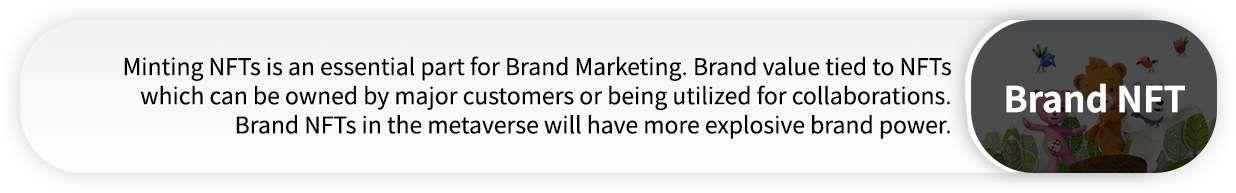
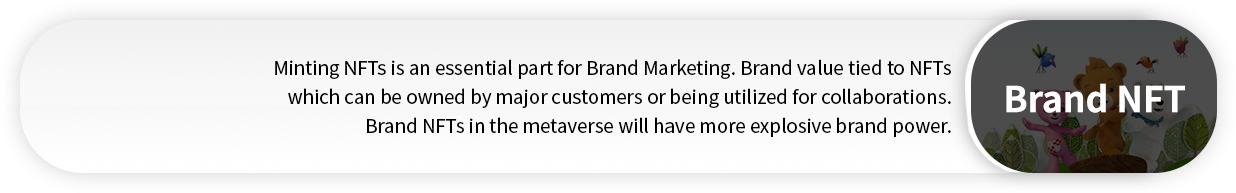
ok

Changed region(s): [[0.0922, 0.2798, 0.7686, 0.4352], [0.0922, 0.4352, 0.7686, 0.5596], [0.1845, 0.5907, 0.7686, 0.715]]

diff --git a/css/ecoplanet.css b/css/ecoplanet.css
@@ -473,6 +473,25 @@ h1 {
   margin-top: 80px;
 }
 
+#content6 {
+  width: 100%;
+  height: 700px;
+  background: linear-gradient(#f1f1f1, white);
+}
+#con_box6 {
+  margin-top: 150px;
+}
+#zq_box {
+  width: 1200px;
+  margin: 0 auto;
+  margin-top: 60px;
+}
+#zq_box p {
+  text-align: center;
+  margin-top: 80px;
+}
+
+
 #content5 {width: 100%; margin-top: 150px;}
 #contact_box {width: 800px; margin: 0 auto; margin-top: 50px;}
 #contact_box p {display: inline-block; width: 95px; font-size: 18px; color: #333333; margin-top: 26px; line-height: 16px;}
